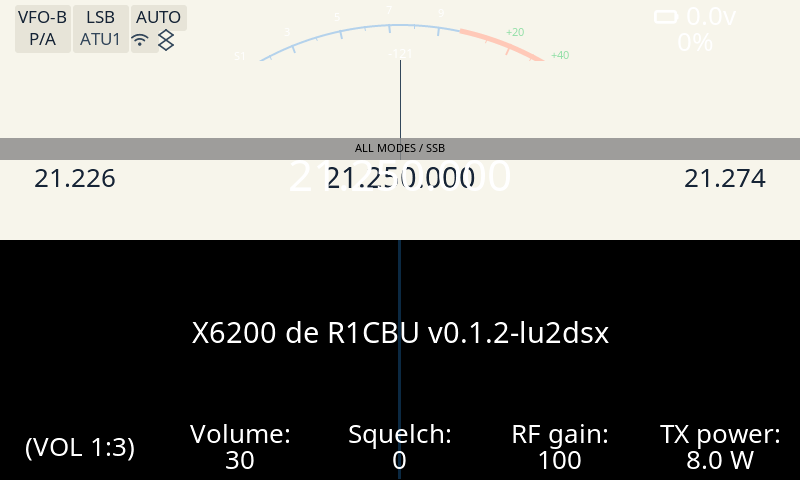
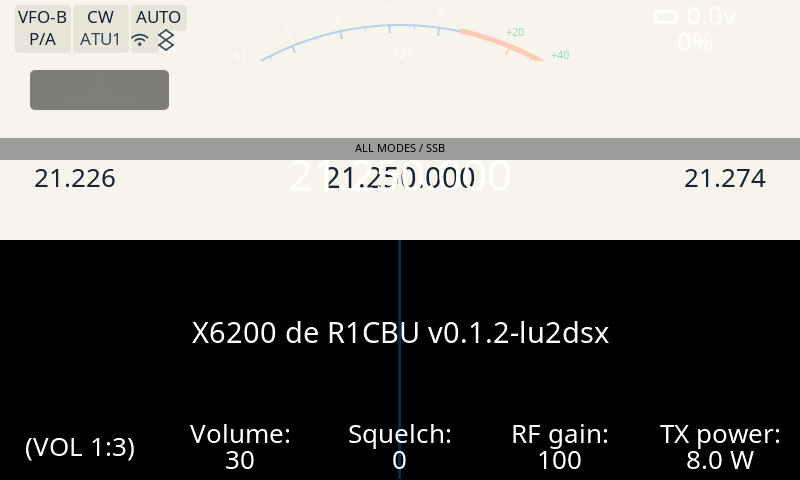
CW #116: re-corrida del banco con el binario actual (md5 e5eb7bfd, gate #86 ok)

Changed region(s): [[0.0312, 0.125, 0.2188, 0.25], [0.0938, 0.0, 0.1562, 0.0625]]

diff --git a/docs/evidencia/2026-10-16-cw116-banco/README.md b/docs/evidencia/2026-10-16-cw116-banco/README.md
@@ -46,8 +46,8 @@ cw_encoder.c: compila para ARM ok
 Y el firmware entero (el `x6200_gui` real, con el fix, en el volumen privado):
 
 ```
--rwxr-xr-x  13 743 188 B  /workspace/build/target/usr/sbin/x6200_gui
-6d23c0906c808f8f9b046ce359b31a0e  x6200_gui
+-rwxr-xr-x  13 747 976 B  /workspace/build/target/usr/sbin/x6200_gui
+e5eb7bfd6b9ff03a7f0a5389d5735b7a  x6200_gui
 ```
 
 El único warning del build es de `lvgl/widgets/lv_waterfall.c` (`discards 'const'
@@ -76,15 +76,15 @@ scripts/apps/x6200/check-matrix.sh 223b30ae HEAD <worktree>
 
 La matriz sale **exit 0** con todos los checks ok, incluido el banco
 (`reconstruyendo la GUI: el hash de los fuentes cambio` → `captura de humo (home)
-ok`, `binario: md5 6d23c0906c80`, `qemu-cpu: cortex-a7`).
+ok`, `binario: md5 e5eb7bfd6b9f`, `qemu-cpu: cortex-a7`).
 
 **Gate #86** (el binario copiado al chroot es el firmware del port) y provenance:
 
 ```
 $ python3 tools/verifica-firmware-port.py .vfix3/usr/sbin/x6200_gui
-OK: /home/pablo/desa/x6200/.vfix3/usr/sbin/x6200_gui es el firmware del port (ELF32 ARM, 13743188 B, 3/3 marcas)
+OK: /home/pablo/desa/x6200/.vfix3/usr/sbin/x6200_gui es el firmware del port (ELF32 ARM, 13747976 B, 3/3 marcas)
 $ md5sum .vfix3/usr/sbin/x6200_gui
-6d23c0906c808f8f9b046ce359b31a0e  .vfix3/usr/sbin/x6200_gui     <- el build del fix
+e5eb7bfd6b9ff03a7f0a5389d5735b7a  .vfix3/usr/sbin/x6200_gui     <- el build del fix
 $ file .vfix3/usr/sbin/x6200_gui
 ELF 32-bit LSB pie executable, ARM, EABI5, dynamically linked, ..., not stripped
 ```
@@ -94,9 +94,9 @@ el socket de control, rotado 270 como en la radio):
 
 | captura | orden | md5 |
 |---|---|---|
-| [`banco-home.png`](banco-home.png) | (arranque) | `6bfb9f96728c74ab6a30978476668d49` |
-| [`banco-cwtrainer.png`](banco-cwtrainer.png) | `{"cmd":"app","text":"CwTrainer"}` | `fe9af8d4d9b66d19b13b79e199eea777` |
-| [`banco-cw-kbd.png`](banco-cw-kbd.png) | `{"cmd":"app","text":"CW"}` | `9f228d2161d0c67de81574e1e30d0726` |
+| [`banco-home.png`](banco-home.png) | (arranque) | `18f763ea640c61c0af4da55cbd85d871` |
+| [`banco-cwtrainer.png`](banco-cwtrainer.png) | `{"cmd":"app","text":"CwTrainer"}` | `5f33b94a062f3253dd9790bcd56aa6cd` |
+| [`banco-cw-kbd.png`](banco-cw-kbd.png) | `{"cmd":"app","text":"CW"}` | `a424645098eb995470aba4d4da470d7d` |
 
 ![CW Trainer en el banco](banco-cwtrainer.png)
 
